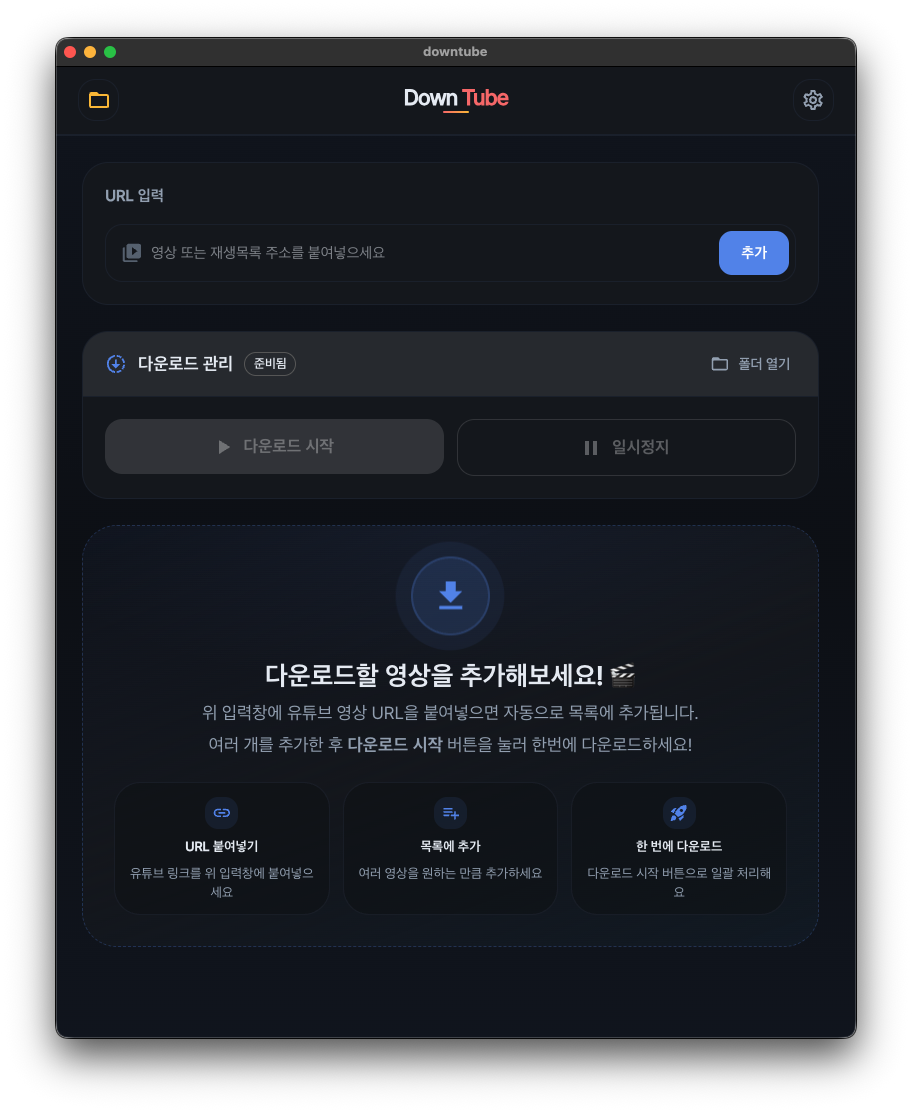
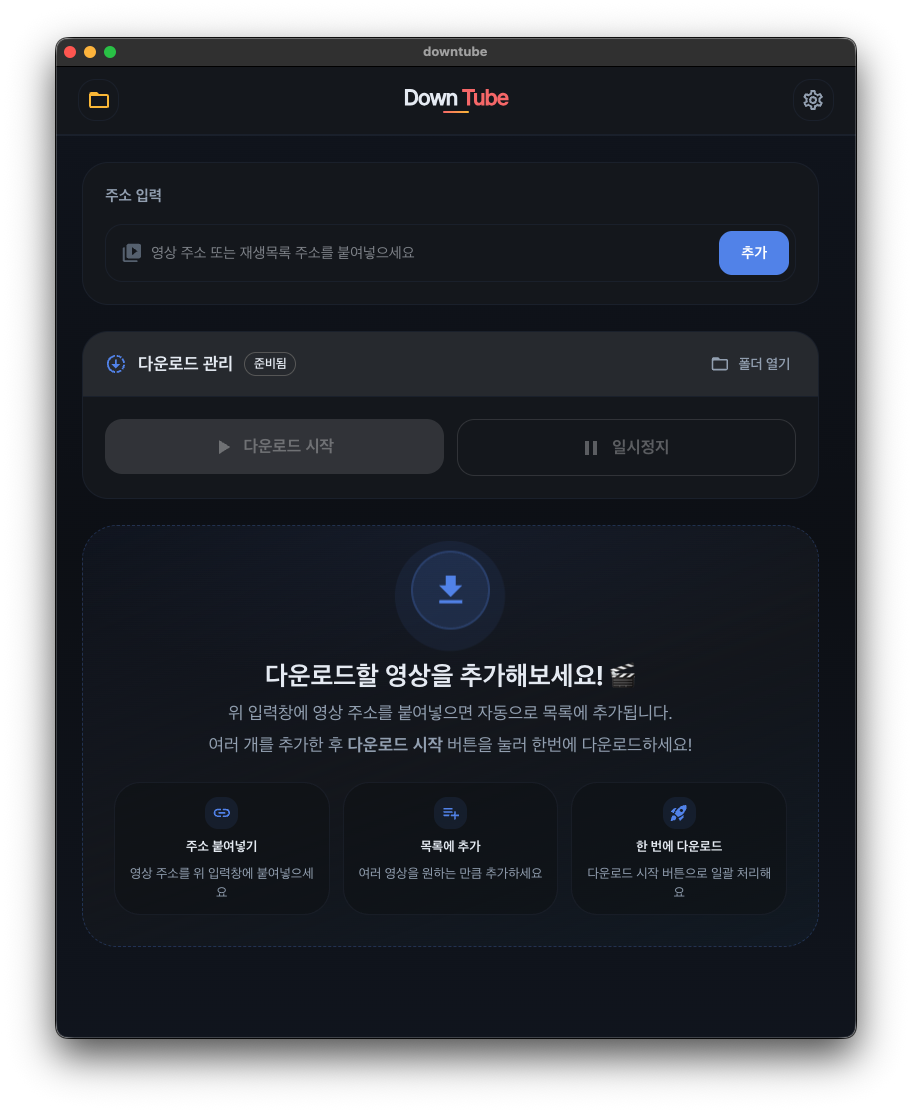
검토 run-download-job 구조

diff --git a/src/renderer/app/features/downloads/components/downloads-url-panel.tsx b/src/renderer/app/features/downloads/components/downloads-url-panel.tsx
@@ -38,13 +38,13 @@ export default function DownloadsUrlPanel(props: {
       <Stack spacing={2}>
         <Stack direction="row" spacing={1} alignItems="center">
           <Typography variant="body2" fontWeight={700} color="text.secondary">
-            URL 입력
+            주소 입력
           </Typography>
         </Stack>
 
         <TextField
           inputRef={props.inputRef}
-          placeholder="영상 또는 재생목록 주소를 붙여넣으세요"
+          placeholder="영상 주소 또는 재생목록 주소를 붙여넣으세요"
           variant="outlined"
           fullWidth
           disabled={props.submitting !== null}
@@ -108,8 +108,8 @@ export default function DownloadsUrlPanel(props: {
             >
               <Typography variant="body2" fontWeight={600}>
                 {props.submitting.kind === 'playlist'
-                  ? '플레이리스트를 분석하고 있어요… 잠시만 기다려주세요 ⏳'
-                  : '영상 정보를 확인하고 있어요… 곧 완료됩니다 🔍'}
+                  ? '재생목록 정보를 확인하고 있어요… 잠시만 기다려주세요 ⏳'
+                  : '주소 정보를 확인하고 있어요… 곧 완료됩니다 🔍'}
               </Typography>
             </Alert>
           </Fade>

diff --git a/src/renderer/app/features/downloads/components/downloads-empty-state.tsx b/src/renderer/app/features/downloads/components/downloads-empty-state.tsx
@@ -23,8 +23,8 @@ const slideUp = keyframes`
 const steps = [
   {
     icon: <LinkIcon sx={{ fontSize: 18 }} />,
-    label: 'URL 붙여넣기',
-    desc: '유튜브 링크를 위 입력창에 붙여넣으세요'
+    label: '주소 붙여넣기',
+    desc: '영상 주소를 위 입력창에 붙여넣으세요'
   },
   {
     icon: <PlaylistAddIcon sx={{ fontSize: 18 }} />,
@@ -116,7 +116,7 @@ export default function DownloadsEmptyState(): React.JSX.Element {
                   alpha(theme.palette.text.secondary, theme.palette.mode === 'light' ? 0.92 : 1)
               }}
             >
-              위 입력창에 유튜브 영상 URL을 붙여넣으면 자동으로 목록에 추가됩니다.
+              위 입력창에 영상 주소를 붙여넣으면 자동으로 목록에 추가됩니다.
               <br />
               여러 개를 추가한 후 <strong>다운로드 시작</strong> 버튼을 눌러 한번에 다운로드하세요!
             </Typography>

diff --git a/src/renderer/app/features/downloads/screens/downloads-screen.tsx b/src/renderer/app/features/downloads/screens/downloads-screen.tsx
@@ -78,11 +78,11 @@ export default function DownloadsScreen(): React.JSX.Element {
   const handleDownloadInfo = async (inputUrl: string): Promise<void> => {
     const url = inputUrl.trim()
     if (!url) {
-      showToast('URL을 입력해주세요', 'warning')
+      showToast('주소를 입력해주세요', 'warning')
       return
     }
     if (!isYoutubeUrl(url)) {
-      showToast('유튜브 URL만 추가할 수 있어요', 'warning')
+      showToast('올바른 영상 주소만 추가할 수 있어요', 'warning')
       return
     }
 
@@ -109,7 +109,7 @@ export default function DownloadsScreen(): React.JSX.Element {
 
       if (refUrl.current) refUrl.current.value = ''
     } catch {
-      showToast('URL을 추가하는데 실패했어요. 주소를 확인해주세요 😢', 'error')
+      showToast('주소를 추가하지 못했어요. 입력한 주소를 확인해주세요 😢', 'error')
     } finally {
       setSubmitting(null)
     }

diff --git a/src/renderer/app/features/downloads/components/downloads-queue-panel.tsx b/src/renderer/app/features/downloads/components/downloads-queue-panel.tsx
@@ -159,7 +159,7 @@ export default function DownloadsQueuePanel(props: {
               fullWidth
               title={
                 !props.hasQueued
-                  ? '먼저 영상 URL을 추가해주세요'
+                  ? '먼저 영상 주소를 추가해주세요'
                   : props.queuePaused
                     ? '일시정지된 다운로드를 계속합니다'
                     : '대기중인 다운로드를 시작합니다'
